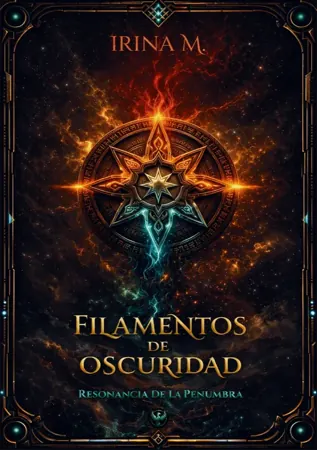
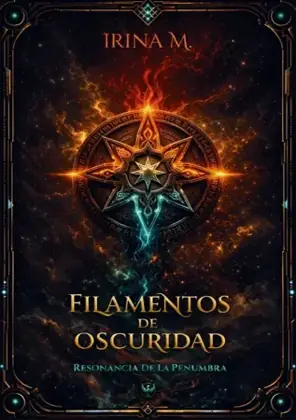
content+perf+legal: CIF + tighter mobile covers + fix firefly init reflow (#26)
Three small wins from Ruben's morning PSI inspection.

1. CIF added to aviso-legal.html (legal compliance)
   Spanish LSSI requires the corporate tax ID on the legal notice. Now:
     Denominación social: Soulware Editorial
     CIF: B26896795
     Contacto: editorial@soulware.live

2. Tighter mobile cover variants (clears PSI "Improve image delivery"
   ~99 KiB savings flag on mobile).
   PSI flagged that mobile variants at 318×450 were ~25% oversized for
   the actual 124×186 display. Re-encoded at 280×420 q72 (was q78).
   Aggregate: 190 KB → 122 KB (-36%, ~68 KB shaved per mobile load).
   srcset width descriptors updated 320w → 280w and 600w → 500w to match
   the actual file widths (also resolves Lighthouse's "file is larger
   than it needs to be" warning more cleanly).

3. ArchiveFireflies forced reflow fix
   PSI showed a 62 ms forced reflow at index-DXsReL6G.js:37:9403 — traced
   to ArchiveFireflies.init() which appended the container to body
   BEFORE the firefly loop. Each Firefly constructor did appendChild →
   window.innerWidth read → style write, flushing layout per firefly.
   Built the entire subtree DETACHED first, then attach once at end.

Also: re-added /obras sitemap entry that got dropped during PR #25's
merge-conflict resolution.

diff --git a/src/js/ui/ArchiveDOM.js b/src/js/ui/ArchiveDOM.js
@@ -112,7 +112,7 @@ export class ArchiveDOM {
           if (item.type === 'anthology') {
             card.className = `obra-book obra-book--${item.status}`;
             const coverHtml = item.img
-              ? `<div class="obra-cover obra-cover--clickable obra-cover--anthology" data-id="${item.id}" role="button" tabindex="0" aria-label="Ver detalles de ${item.title}"><img src="${item.img}" srcset="${item.img.replace('/assets/','/assets/mobile/')} 320w, ${item.img} 600w" sizes="(max-width: 768px) 150px, 220px" alt="${item.title}" width="600" height="900" loading="lazy" decoding="async" /></div>`
+              ? `<div class="obra-cover obra-cover--clickable obra-cover--anthology" data-id="${item.id}" role="button" tabindex="0" aria-label="Ver detalles de ${item.title}"><img src="${item.img}" srcset="${item.img.replace('/assets/','/assets/mobile/')} 280w, ${item.img} 500w" sizes="(max-width: 768px) 150px, 220px" alt="${item.title}" width="600" height="900" loading="lazy" decoding="async" /></div>`
               : `<div class="obra-cover obra-cover--empty"></div>`;
             card.innerHTML = `
               ${coverHtml}
@@ -129,7 +129,7 @@ export class ArchiveDOM {
 
           card.className = `obra-book obra-book--${item.status}`;
           const coverHtml = item.img
-            ? `<div class="obra-cover obra-cover--clickable" data-id="${item.id}" role="button" tabindex="0" aria-label="Ver detalles de ${item.title}"><img src="${item.img}" srcset="${item.img.replace('/assets/','/assets/mobile/')} 320w, ${item.img} 600w" sizes="(max-width: 768px) 150px, 220px" alt="${item.title}" width="600" height="900" loading="lazy" decoding="async" /></div>`
+            ? `<div class="obra-cover obra-cover--clickable" data-id="${item.id}" role="button" tabindex="0" aria-label="Ver detalles de ${item.title}"><img src="${item.img}" srcset="${item.img.replace('/assets/','/assets/mobile/')} 280w, ${item.img} 500w" sizes="(max-width: 768px) 150px, 220px" alt="${item.title}" width="600" height="900" loading="lazy" decoding="async" /></div>`
             : `<div class="obra-cover obra-cover--clickable obra-cover--empty" data-id="${item.id}" role="button" tabindex="0" aria-label="Ver detalles de ${item.title}"></div>`;
 
           let ctaHtml = '';
@@ -415,7 +415,7 @@ export class ArchiveDOM {
       } else {
         obrasList.innerHTML = librosLabel + obras.map(item => {
           const coverHtml = item.img
-            ? `<div class="reading-obra-cover"><img src="${item.img}" srcset="${item.img.replace('/assets/','/assets/mobile/')} 320w, ${item.img} 600w" sizes="(max-width: 768px) 150px, 220px" alt="${item.title}" width="600" height="900" loading="lazy" decoding="async" /></div>`
+            ? `<div class="reading-obra-cover"><img src="${item.img}" srcset="${item.img.replace('/assets/','/assets/mobile/')} 280w, ${item.img} 500w" sizes="(max-width: 768px) 150px, 220px" alt="${item.title}" width="600" height="900" loading="lazy" decoding="async" /></div>`
             : `<div class="reading-obra-cover"><div class="reading-obra-cover-empty">${item.type==='anthology'?'Antología':'—'}</div></div>`;
           let ctaHtml = '';
           if (item.editions) {
@@ -622,7 +622,7 @@ export class ArchiveDOM {
 
     const coverEl = document.getElementById('obra-modal-cover');
     coverEl.innerHTML = item.img
-      ? `<img src="${item.img}" srcset="${item.img.replace('/assets/','/assets/mobile/')} 320w, ${item.img} 600w" sizes="(max-width: 768px) 150px, 220px" alt="${item.title}" width="600" height="900" />`
+      ? `<img src="${item.img}" srcset="${item.img.replace('/assets/','/assets/mobile/')} 280w, ${item.img} 500w" sizes="(max-width: 768px) 150px, 220px" alt="${item.title}" width="600" height="900" />`
       : `<div class="obra-modal-no-cover">${item.type === 'anthology' ? 'Antología' : 'Sin portada'}</div>`;
 
     let ctaHtml = '';

diff --git a/src/js/ui/ArchiveFireflies.js b/src/js/ui/ArchiveFireflies.js
@@ -181,21 +181,26 @@ export class ArchiveFireflies {
   }
 
   init() {
-    // Attach to body (not #main-site) so position:fixed works correctly on scroll
+    // Attach to body (not #main-site) so position:fixed works correctly on scroll.
+    // Build the entire subtree DETACHED first, then attach once — appending each
+    // firefly to an already-attached container caused per-firefly forced reflows
+    // (verified via Lighthouse: 62 ms of layout thrash in the bundled init).
     this._container = document.createElement('div');
     this._container.className = 'archive-firefly-container';
     this._container.setAttribute('aria-hidden', 'true');
-    document.body.appendChild(this._container);
 
-    // Spawn fireflies
+    // Spawn fireflies INTO the detached container (no DOM = no layout cost)
     for (let i = 0; i < FIREFLY_COUNT; i++) {
       this._fireflies.push(new Firefly(this._container, i));
     }
 
-    // Ambient particles — capable hardware only
+    // Ambient particles — capable hardware only (also adds to detached container)
     if (CAPABLE) {
       this._particles = new AmbientParticles(this._container);
     }
+
+    // Single attach — flushes layout exactly once for the whole subtree
+    document.body.appendChild(this._container);
 
     // Track user activity + scroll velocity on mainSite
     const mainSite = document.getElementById('main-site');

diff --git a/public/aviso-legal.html b/public/aviso-legal.html
@@ -33,7 +33,9 @@
 
   <h2>Titular del sitio web</h2>
   <p>En cumplimiento de la Ley 34/2002, de 11 de julio, de Servicios de la Sociedad de la Información y de Comercio Electrónico (LSSI-CE), se informa que el presente sitio web (<strong>soulware.live</strong>) es titularidad de Soulware Editorial.</p>
-  <p>Contacto: <a href="mailto:editorial@soulware.live">editorial@soulware.live</a></p>
+  <p><strong>Denominación social:</strong> Soulware Editorial<br />
+  <strong>CIF:</strong> B26896795<br />
+  <strong>Contacto:</strong> <a href="mailto:editorial@soulware.live">editorial@soulware.live</a></p>
 
   <h2>Objeto y uso del sitio</h2>
   <p>Soulware.live es un sitio web de carácter cultural y editorial que presenta las obras literarias y experiencias digitales publicadas bajo el sello Soulware. El acceso y uso del sitio implica la aceptación de las presentes condiciones.</p>
